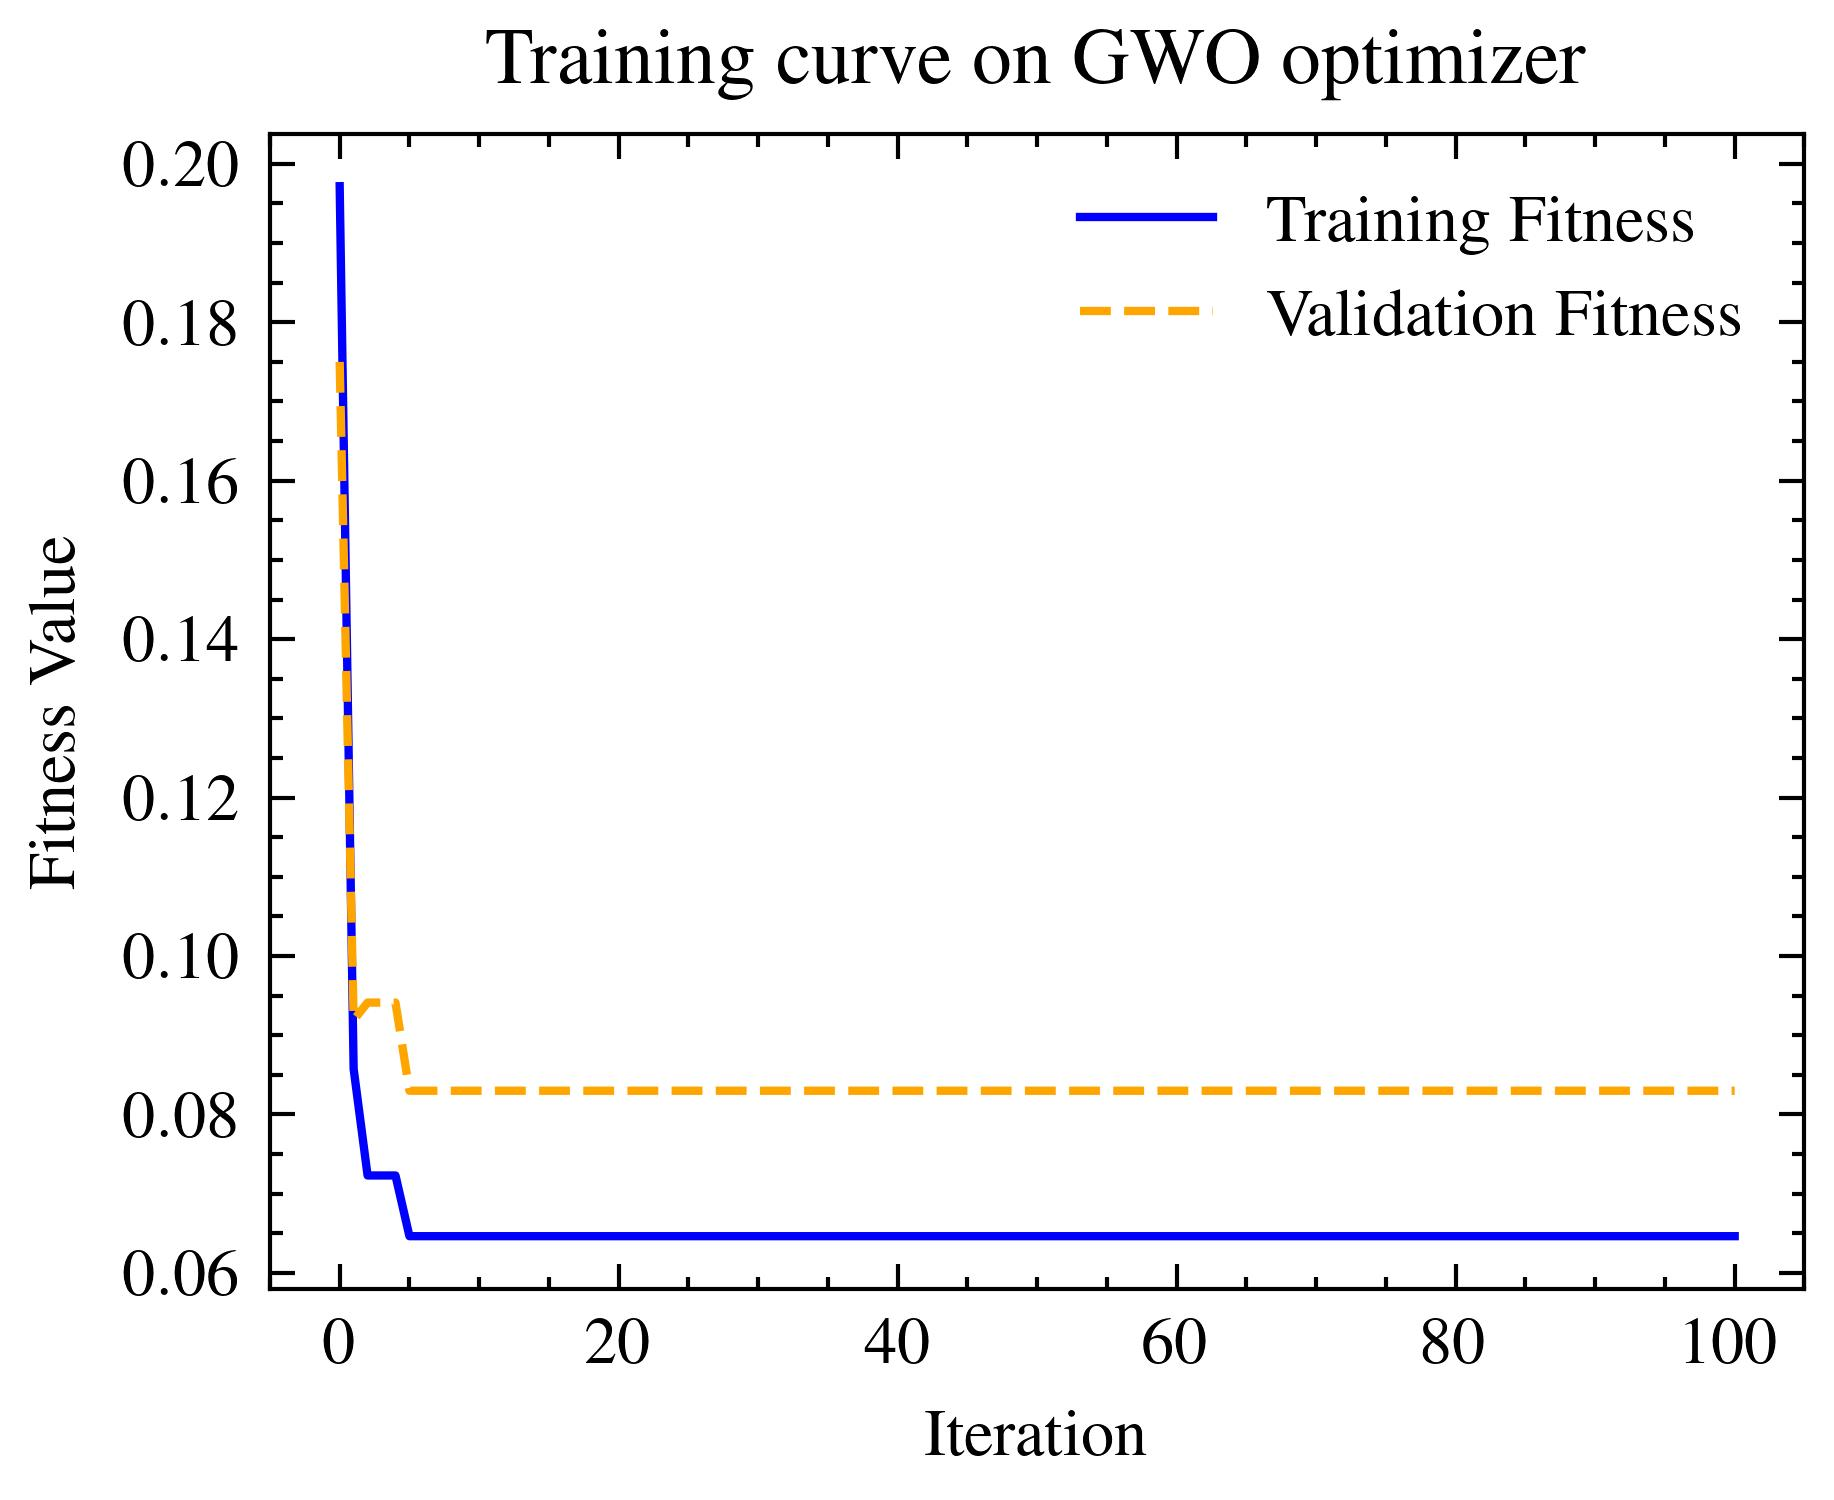
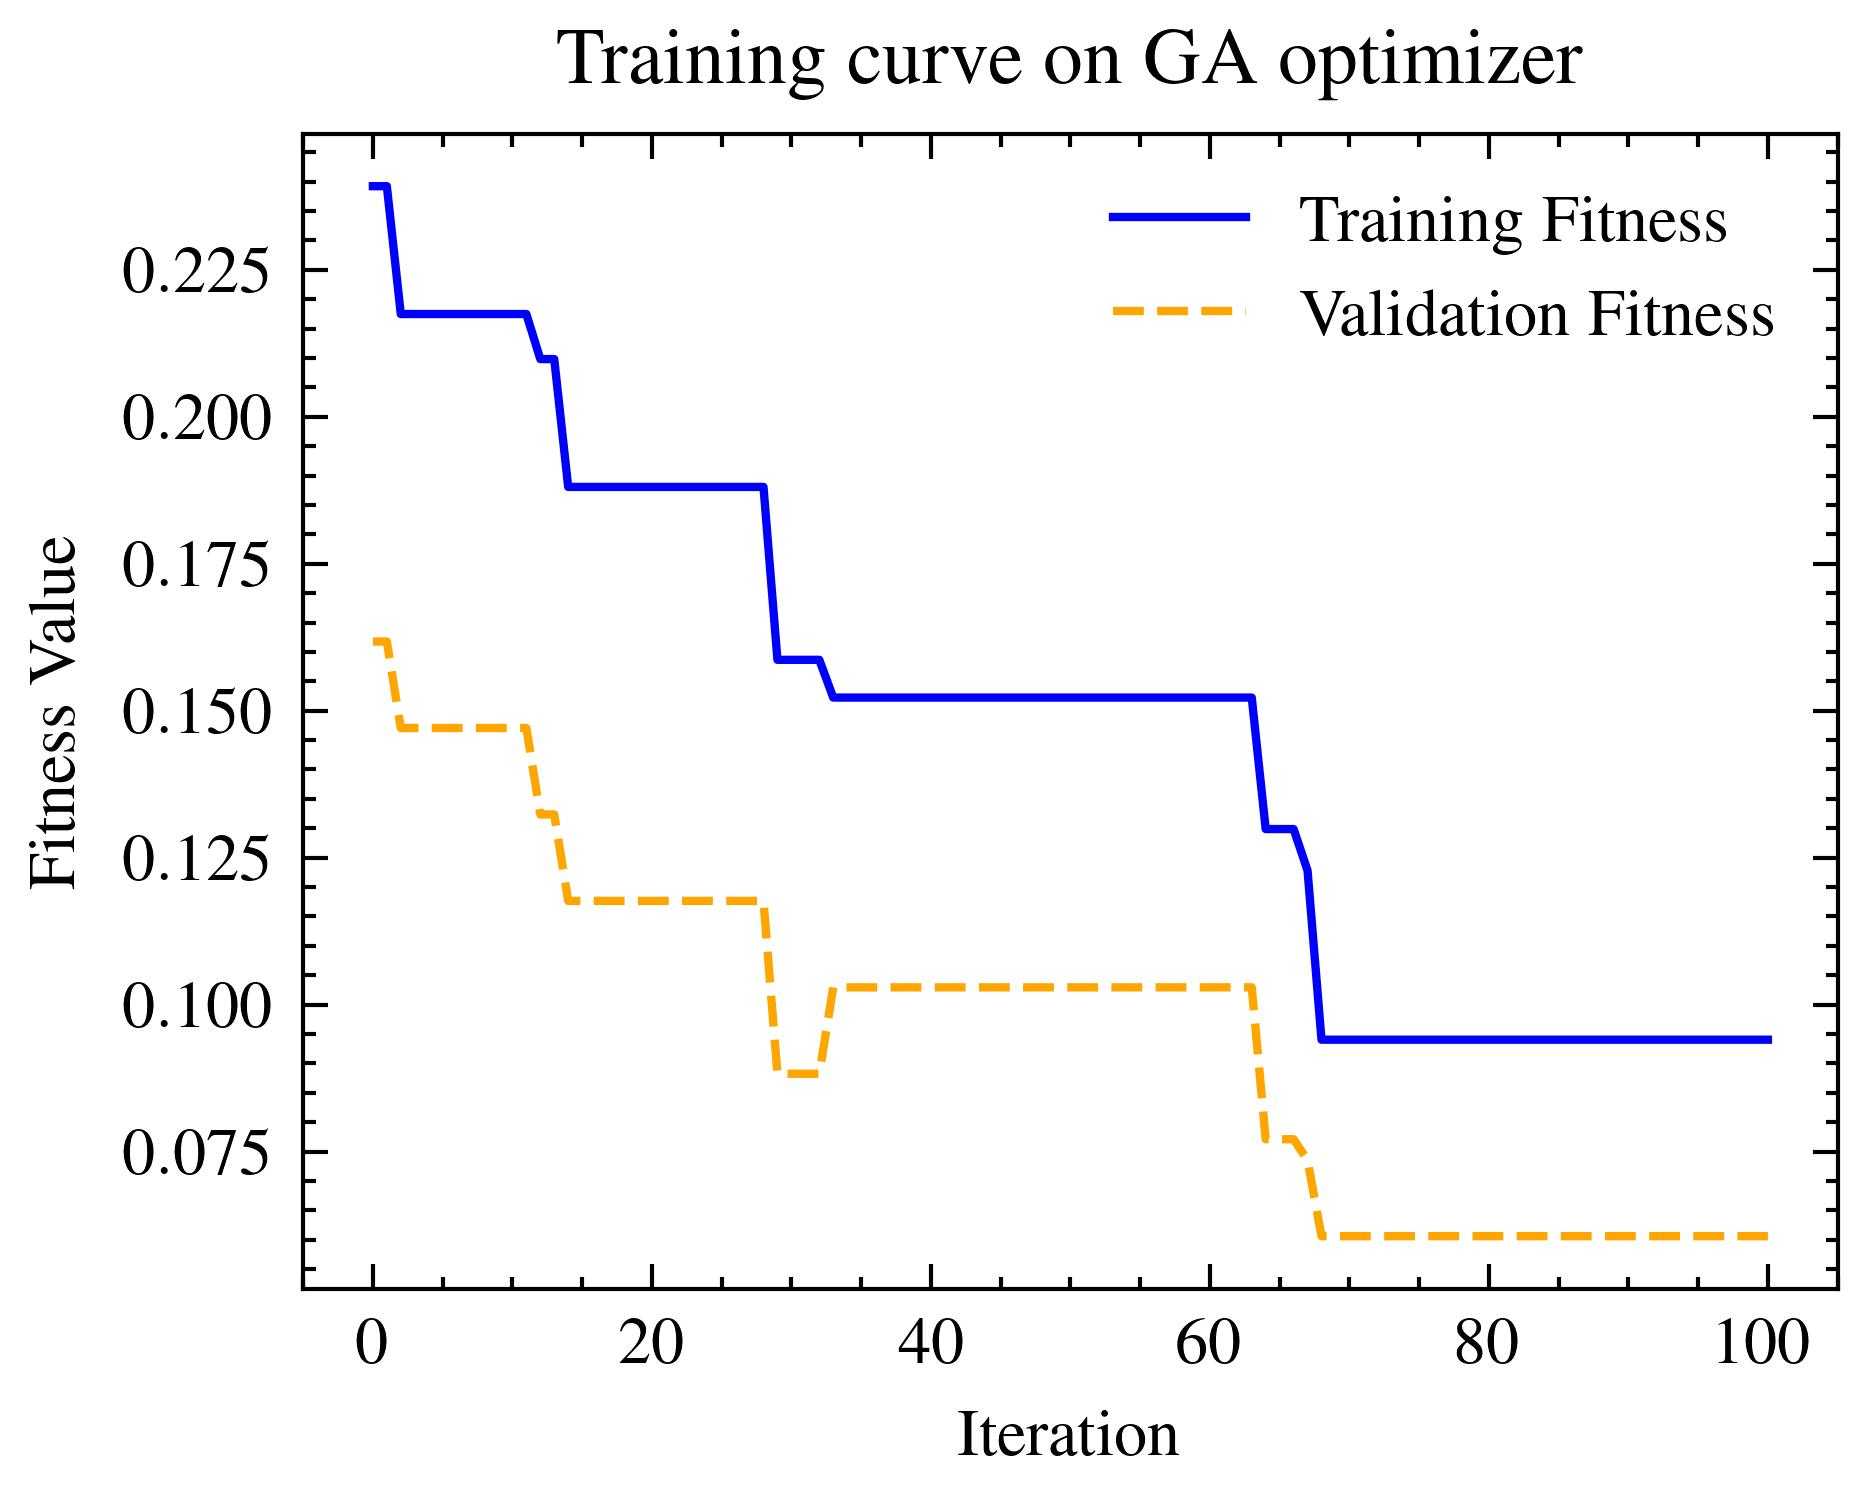
Implemented binary GA based on pymetaheuristics GA implementation
Implemented One-point crossover

diff --git a/src/pyMetaheuristic/algorithm/ga.py b/src/pyMetaheuristic/algorithm/ga.py
@@ -10,119 +10,190 @@
 ############################################################################
 
 # Required Libraries
-import numpy  as np
+import numpy as np
 import random
 import os
 
 ############################################################################
 
+
 # Function
 def target_function():
     return
 
+
 ############################################################################
+
 
 # Function: Initialize Variables
-def initial_population(population_size = 5, min_values = [-5,-5], max_values = [5,5], target_function = target_function):
-    population = np.zeros((population_size, len(min_values) + 1))
+def initial_population(population_size=5,
+                       min_values=[-5, -5],
+                       max_values=[5, 5],
+                       target_function=target_function,
+                       target_function_parameters=None):
+    population = np.zeros((population_size, len(min_values) + 2))
     for i in range(0, population_size):
         for j in range(0, len(min_values)):
-             population[i,j] = random.uniform(min_values[j], max_values[j]) 
-        population[i,-1] = target_function(population[i,0:population.shape[1]-1])
+            population[i, j] = random.choice([0, 1])
+        target_function_parameters['weights'] = population[
+            i, 0:population.shape[1] - 2]
+        fitness = target_function(**target_function_parameters)
+        population[i, -1] = fitness['ValFitness']
+        population[i, -2] = fitness['TrainFitness']
     return population
 
+
 ############################################################################
 
-# Function: Fitness
-def fitness_function(population): 
-    fitness = np.zeros((population.shape[0], 2))
-    for i in range(0, fitness.shape[0]):
-        fitness[i,0] = 1/(1+ population[i,-1] + abs(population[:,-1].min()))
-    fit_sum      = fitness[:,0].sum()
-    fitness[0,1] = fitness[0,0]
-    for i in range(1, fitness.shape[0]):
-        fitness[i,1] = (fitness[i,0] + fitness[i-1,1])
-    for i in range(0, fitness.shape[0]):
-        fitness[i,1] = fitness[i,1]/fit_sum
+
+def fitness_function(population):
+    min_pop = abs(population[:, -1].min())
+    fitness_first_col = 1 / (1 + population[:, -1] + min_pop)
+    fitness_second_col = np.cumsum(fitness_first_col)
+    fitness_second_col = fitness_second_col / fitness_second_col[-1]
+    fitness = np.column_stack((fitness_first_col, fitness_second_col))
     return fitness
 
+
 # Function: Selection
-def roulette_wheel(fitness): 
-    ix     = 0
-    random = int.from_bytes(os.urandom(8), byteorder = 'big') / ((1 << 64) - 1)
+def roulette_wheel(fitness):
+    ix = 0
+    random = np.random.rand()
     for i in range(0, fitness.shape[0]):
         if (random <= fitness[i, 1]):
-          ix = i
-          break
+            ix = i
+            break
     return ix
 
-# Function: Offspring
-def breeding(population, fitness, min_values = [-5,-5], max_values = [5,5], mu = 1, elite = 0, target_function = target_function):
-    offspring   = np.copy(population)
-    b_offspring = 0
-    if (elite > 0):
-        preserve = np.copy(population[population[:,-1].argsort()])
-        for i in range(0, elite):
-            for j in range(0, offspring.shape[1]):
-                offspring[i,j] = preserve[i,j]
-    for i in range (elite, offspring.shape[0]):
-        parent_1, parent_2 = roulette_wheel(fitness), roulette_wheel(fitness)
-        while parent_1 == parent_2:
-            parent_2 = random.sample(range(0, len(population) - 1), 1)[0]
-        for j in range(0, offspring.shape[1] - 1):
-            rand   = int.from_bytes(os.urandom(8), byteorder = 'big') / ((1 << 64) - 1)
-            rand_b = int.from_bytes(os.urandom(8), byteorder = 'big') / ((1 << 64) - 1)  
-            rand_c = int.from_bytes(os.urandom(8), byteorder = 'big') / ((1 << 64) - 1)                              
-            if (rand <= 0.5):
-                b_offspring = 2*(rand_b)
-                b_offspring = b_offspring**(1/(mu + 1))
-            elif (rand > 0.5):  
-                b_offspring = 1/(2*(1 - rand_b))
-                b_offspring = b_offspring**(1/(mu + 1))       
-            if (rand_c >= 0.5):
-                offspring[i,j] = np.clip(((1 + b_offspring)*population[parent_1, j] + (1 - b_offspring)*population[parent_2, j])/2, min_values[j], max_values[j])           
-            else:   
-                offspring[i,j] = np.clip(((1 - b_offspring)*population[parent_1, j] + (1 + b_offspring)*population[parent_2, j])/2, min_values[j], max_values[j]) 
-        offspring[i,-1] = target_function(offspring[i,0:offspring.shape[1]-1]) 
+
+# Function: Breeding
+def breeding(population,
+             fitness,
+             crossover_rate,
+             elite,
+             target_function,
+             target_function_parameters=None):
+    offspring = np.copy(population)
+    offspring = offspring[np.argsort(offspring[:, -1])[::-1]]
+
+    if elite > 0:
+        preserve = np.copy(population[population[:, -1].argsort()])
+        offspring[:elite, :] = preserve[:elite, :]
+
+    for _ in range(elite, offspring.shape[0], 2):
+        # Sort offspring only once before the loop
+        sorted_offspring_indices = np.argsort(offspring[:, -1])[::-1]
+        worst_individuals = sorted_offspring_indices[-2:]
+        parent_1_idx, parent_2_idx = roulette_wheel(fitness), roulette_wheel(fitness)
+
+        # Ensure parents are different
+        while parent_1_idx == parent_2_idx:
+            parent_2_idx = np.random.choice(len(population) - 1)
+
+        parent_1 = population[parent_1_idx, :]
+        parent_2 = population[parent_2_idx, :]
+
+        # Check if crossover should occur
+        if np.random.rand() < crossover_rate:
+            # Randomly choose the crossover point
+            crossover_point = np.random.randint(1, len(parent_1) - 1)
+
+            # Create offspring using binary crossover
+            child1 = np.copy(parent_1)
+            child2 = np.copy(parent_2)
+
+            child1[crossover_point:] = parent_2[crossover_point:]
+            child2[crossover_point:] = parent_1[crossover_point:]
+
+            # Evaluate fitness for the offspring
+            target_function_parameters['weights'] = child1[:-2]
+            fitness_values_child1 = target_function(**target_function_parameters)
+            child1[-1] = fitness_values_child1['ValFitness']
+            child1[-2] = fitness_values_child1['TrainFitness']
+
+            target_function_parameters['weights'] = child2[:-2]
+            fitness_values_child2 = target_function(**target_function_parameters)
+            child2[-1] = fitness_values_child2['ValFitness']
+            child2[-2] = fitness_values_child2['TrainFitness']
+
+            # Check if the child's fitness is better than the worst individuals
+            worst_idx0, worst_idx1 = worst_individuals[0], worst_individuals[1]
+            if child1[-1] < offspring[worst_idx0, -1]:
+                offspring[worst_idx0] = child1[:]
+
+            if child2[-1] < offspring[worst_idx1, -1]:
+                offspring[worst_idx1] = child2[:]
+
+        else:
+            # If no crossover, offspring are identical to parents
+            offspring[parent_1_idx] = parent_1[:]
+            offspring[parent_2_idx] = parent_2[:]
+
     return offspring
- 
-# Function: Mutation
-def mutation(offspring, mutation_rate = 0.1, eta = 1, min_values = [-5,-5], max_values = [5,5], target_function = target_function):
-    d_mutation = 0            
-    for i in range (0, offspring.shape[0]):
-        for j in range(0, offspring.shape[1] - 1):
-            probability = int.from_bytes(os.urandom(8), byteorder = 'big') / ((1 << 64) - 1)
-            if (probability < mutation_rate):
-                rand   = int.from_bytes(os.urandom(8), byteorder = 'big') / ((1 << 64) - 1)
-                rand_d = int.from_bytes(os.urandom(8), byteorder = 'big') / ((1 << 64) - 1)                                     
-                if (rand <= 0.5):
-                    d_mutation = 2*(rand_d)
-                    d_mutation = d_mutation**(1/(eta + 1)) - 1
-                elif (rand > 0.5):  
-                    d_mutation = 2*(1 - rand_d)
-                    d_mutation = 1 - d_mutation**(1/(eta + 1))                
-                offspring[i,j] = np.clip((offspring[i,j] + d_mutation), min_values[j], max_values[j])
-        offspring[i,-1] = target_function(offspring[i,0:offspring.shape[1]-1])                        
+
+
+
+# Function: Mutation (Modified for Binary Representation)
+def mutation(offspring,
+             mutation_rate=0.1,
+             target_function=target_function,
+             target_function_parameters=None):
+    for i in range(0, offspring.shape[0]):
+        random_numbers = [
+            random.uniform(0, 1) for _ in range(offspring.shape[1] - 2)
+        ]
+        offspring[i, :-2] = [
+            1 - bit if probability < mutation_rate else bit
+            for bit, probability in zip(offspring[i, :-2], random_numbers)
+        ]
+
+        target_function_parameters['weights'] = offspring[i, 0:-2]
+        fitness_values = target_function(**target_function_parameters)
+        offspring[i, -1] = fitness_values['ValFitness']
+        offspring[i, -2] = fitness_values['TrainFitness']
+
     return offspring
+
 
 ############################################################################
 
+
 # GA Function
-def genetic_algorithm(population_size = 5, mutation_rate = 0.1, elite = 0, min_values = [-5,-5], max_values = [5,5], eta = 1, mu = 1, generations = 50, target_function = target_function, verbose = True):    
-    count      = 0
-    population = initial_population(population_size, min_values, max_values, target_function)
-    fitness    = fitness_function(population)    
-    elite_ind  = np.copy(population[population[:,-1].argsort()][0,:])
-    while (count <= generations):  
+def genetic_algorithm(population_size=5,
+                      mutation_rate=0.1,
+                      elite=0,
+                      min_values=[-5, -5],
+                      max_values=[5, 5],
+                      crossover_rate=0.8,
+                      generations=50,
+                      target_function=target_function,
+                      target_function_parameters=None,
+                      verbose=True):
+    count = 0
+    fitness_values = []
+    population = initial_population(population_size, min_values, max_values,
+                                    target_function,
+                                    target_function_parameters)
+    fitness = fitness_function(population)
+    elite_ind = np.copy(population[population[:, -1].argsort()][0, :])
+    while (count <= generations):
         if (verbose == True):
-            print('Generation = ', count, ' f(x) = ', elite_ind[-1])  
-        offspring  = breeding(population, fitness, min_values, max_values, mu, elite, target_function) 
-        population = mutation(offspring, mutation_rate, eta, min_values, max_values, target_function)
-        fitness    = fitness_function(population)
-        value      = np.copy(population[population[:,-1].argsort()][0,:])
-        if(elite_ind[-1] > value[-1]):
-            elite_ind = np.copy(value) 
-        count = count + 1       
-    return elite_ind 
+            print('Generation = ', count, ' f(x) = ', elite_ind[-1])
+        offspring = breeding(population, fitness, crossover_rate, elite,
+                             target_function, target_function_parameters)
+        population = mutation(offspring, mutation_rate, target_function,
+                              target_function_parameters)
+        fitness = fitness_function(population)
+        value = np.copy(population[population[:, -1].argsort()][0, :])
+        if (elite_ind[-1] > value[-1]):
+            elite_ind = np.copy(value)
+        count = count + 1
+        fitness_values.append({
+            'ValFitness': elite_ind[-1],
+            'TrainFitness': elite_ind[-2]
+        })
+
+    return elite_ind, fitness_values
+
 
 ############################################################################

diff --git a/src/constants.py b/src/constants.py
@@ -6,6 +6,7 @@ from pyMetaheuristic.algorithm import artificial_bee_colony_optimization
 from pyMetaheuristic.algorithm import bat_algorithm
 from pyMetaheuristic.algorithm import firefly_algorithm
 from pyMetaheuristic.algorithm import particle_swarm_optimization
+from pyMetaheuristic.algorithm import genetic_algorithm
 
 # ---------------------------------- DATASETS ------------------------------------ #
 
@@ -24,6 +25,7 @@ OPTIMIZERS = {
     'BA': bat_algorithm,
     'PSO': particle_swarm_optimization,
     'FA': firefly_algorithm,
+    'GA': genetic_algorithm
 }
 
 # ----------------------------------- NAMES ------------------------------------- #

diff --git a/src/data_utils.py b/src/data_utils.py
@@ -221,6 +221,18 @@ def get_optimizer_parameters(optimizer=None, solution_len=2):
             'binary': 's',
         }
         optimizer_title = 'Running PSO'
+    elif optimizer_upper == 'GA':
+        parameters = {
+            'population_size': DEFAULT_POPULATION_SIZE,
+            'generations': DEFAULT_ITERATIONS,
+            'min_values': [0] * (solution_len),
+            'max_values': [1] * (solution_len),
+            'crossover_rate': 1,
+            'mutation_rate': 0.1,
+            'elite': 2,
+            'verbose': True,
+        }
+        optimizer_title = 'Running GA'
 
     return parameters, optimizer_title
 

diff --git a/src/test_utils.py b/src/test_utils.py
@@ -158,14 +158,14 @@ def test_cross_validation(
 
 
 if __name__ == "__main__":
-    optimizer = "WOA"
+    optimizer = "GA"
     """
     fig, axs = plt.subplots(1, 2, figsize=(10, 5))
     plot_s_shaped_transfer_function(axs[0])
     plot_v_shaped_transfer_function(axs[1])
     plt.savefig("./images/transfer_functions.jpg")
     """
-    """
+    
     test_run_optimizer(
         **{
             key: value
@@ -173,4 +173,6 @@ if __name__ == "__main__":
             if key != "k" and key != "dataset"
         })     
     """
+
     test_cross_validation(**default_parameters(optimizer))
+    """
